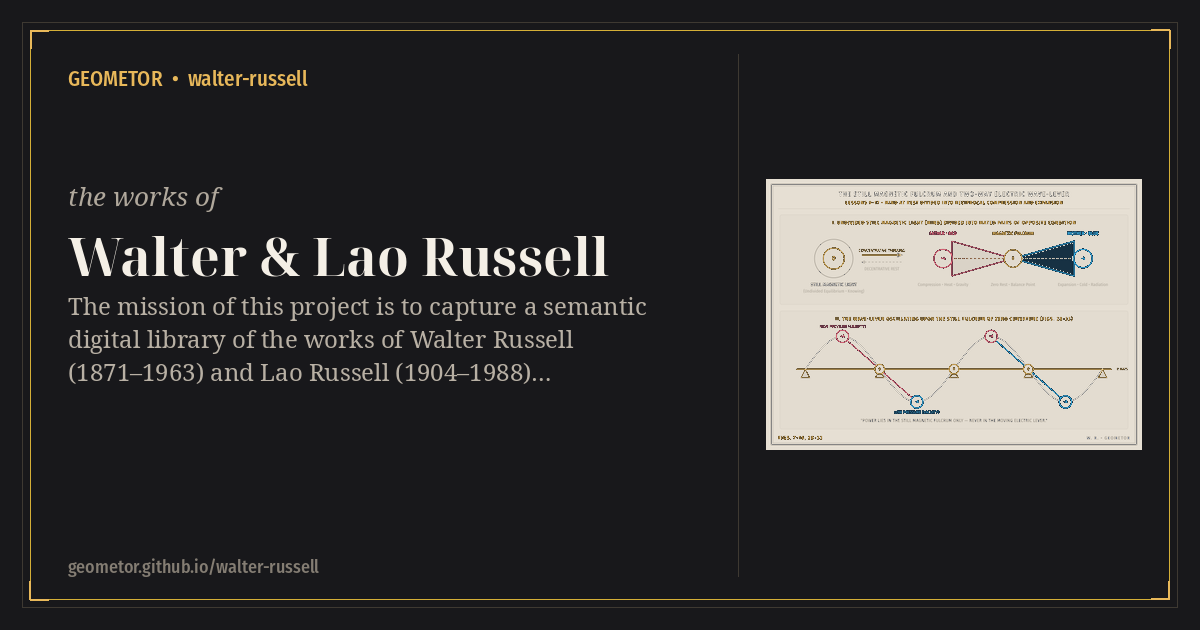
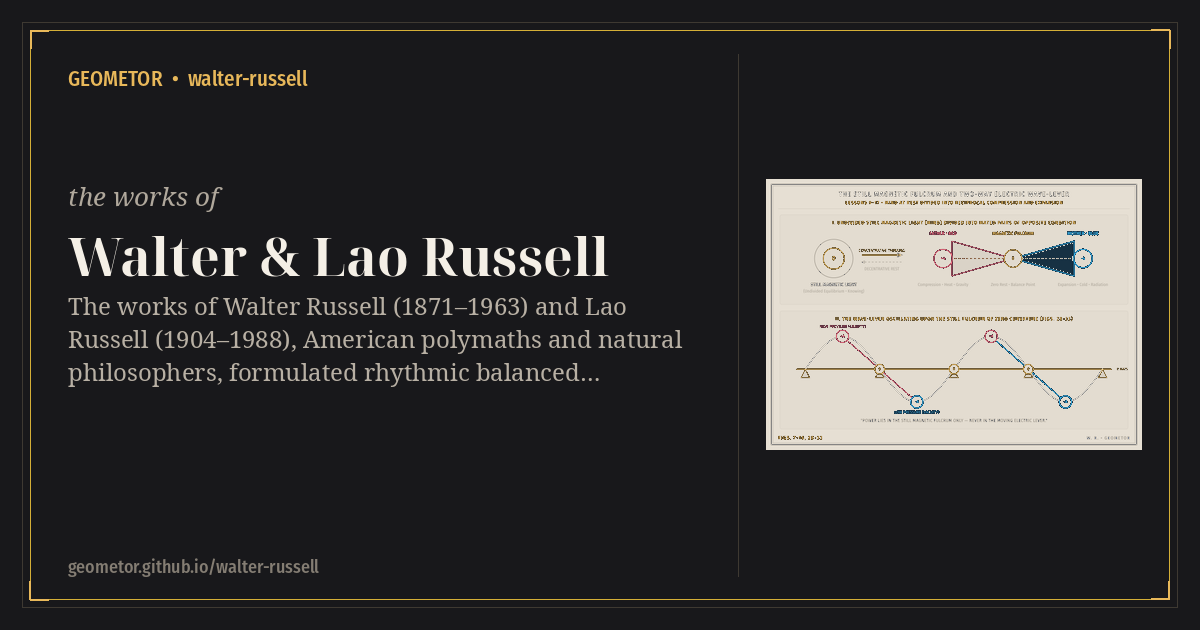
docs: add construction hero images, elevate English titles with native title tracks, and standardize track menus

Changed region(s): [[0.0617, 0.4524, 0.5858, 0.6032]]

diff --git a/README.rst b/README.rst
@@ -3,6 +3,11 @@ GEOMETOR • russell
 
 **Visit the Online Archive:** https://geometor.github.io/russell/
 
+.. image:: docsrc/_static/plates/Fig_172_hires.png
+   :alt: GEOMETOR • walter-russell featured geometric construction
+   :target: https://geometor.github.io/russell/
+   :align: center
+
 **Walter & Lao Russell • Home Study Course, Wave-Field Cosmogony • semantic digital archive**
 
 Mission
